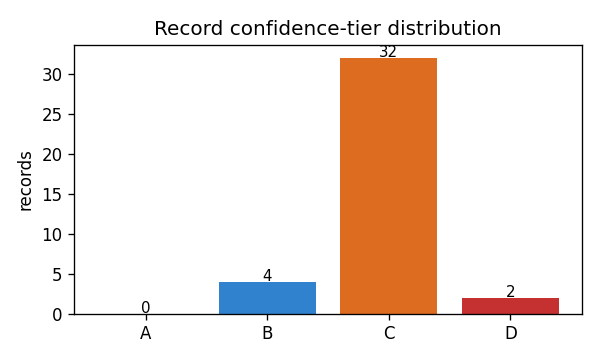
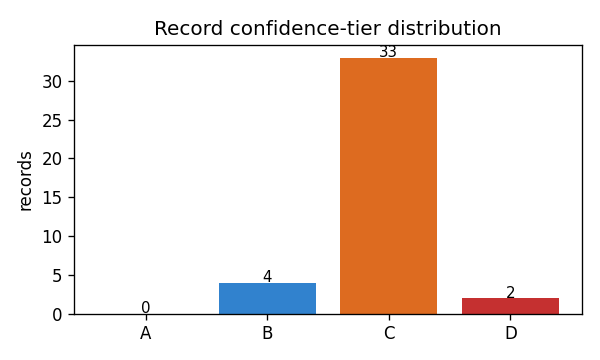
Cox survival link + survival-model-choice divergence (v0.13.0)
Completes the spec's "Cox and parametric OS/PFS link models" (§2, §6): the
parametric Weibull-PH form existed; the Cox form (nonparametric tabulated
baseline) did not.

- survival_cox_ph kernel: S(t|x) = S0(t)^exp(beta*x), with S0(t) a tabulated
  baseline survival interpolated from the record — the data-driven baseline is
  exactly what distinguishes Cox from the closed-form Weibull link.
- Kernel framework: KernelSpec.uses_baseline + structure.baseline_survival table
  (schema), injected by simulate via _survival_vals.
- The Cox link (survival_link.nsclc_os_cox) carries structure.default=false, so
  auto-discovery still returns exactly one link per (context, endpoint) and the
  Cox form is opt-in via survival_link=. This turns "Weibull vs Cox" into a
  deliberate survival-model-choice comparison — a third uncertainty axis (median
  OS ~91 vs ~107 wk on the identical week-8 TGI metric).
- The tabulated baseline travels in the vt-json and JSON-LD exports (+ context
  terms endpoint / baselineSurvival).

Tests (+6): kernel registration, non-default auto-exclusion, valid monotone
survival curve, covariate direction, Weibull-vs-Cox disagreement, baseline in
exports. 138 pass.

Docs: README survival-model-choice section + figure + kernels table + design
decision; notebook 10; CHANGELOG; version 0.13.0; report regenerated.

All parameter values remain illustrative and unverified by design.

diff --git a/tests/test_cox.py b/tests/test_cox.py
@@ -1,0 +1,64 @@
+"""Cox proportional-hazards survival link (nonparametric tabulated baseline)."""
+
+import json
+
+import numpy as np
+import onkos
+from onkos.export.registry import get_kernel
+from onkos.simulate import _survival_vals
+
+NSCLC = {"tumor_type": "NSCLC", "line": "first"}
+COX = "survival_link.nsclc_os_cox"
+T = np.linspace(0.0, 208.0, 417)
+
+
+def test_cox_kernel_registered_and_uses_baseline():
+    spec = get_kernel(onkos.load()[COX])
+    assert spec.name == "survival_cox_ph"
+    assert spec.uses_baseline is True
+
+
+def test_cox_is_not_auto_selected():
+    """The non-default Cox link must not collide with the Weibull OS link."""
+    ds = onkos.load()
+    tr = onkos.simulate(ds, "resistance.claret_2009.tgi", context=NSCLC, drug_effect=1.0)
+    # auto-discovery yields exactly the default OS (Weibull) and PFS links
+    assert set(tr.survival) == {"OS", "PFS"}
+
+
+def test_cox_curve_is_valid_survival():
+    ds = onkos.load()
+    tr = onkos.simulate(ds, "resistance.claret_2009.tgi", context=NSCLC, drug_effect=1.0,
+                        t=T, survival_link=COX)
+    s = tr.os_curve
+    assert s is not None
+    assert abs(s[0] - 1.0) < 1e-6        # starts at full survival
+    assert np.all(np.diff(s) <= 1e-9)    # monotone non-increasing
+    assert np.all((s >= 0) & (s <= 1))
+
+
+def test_cox_covariate_direction():
+    ds = onkos.load()
+    cox = ds[COX]
+    spec = get_kernel(cox)
+    better = spec.analytic(T, _survival_vals(cox, -0.5))  # deep shrinkage
+    worse = spec.analytic(T, _survival_vals(cox, +0.5))   # growth
+    assert better[200] > worse[200]
+
+
+def test_weibull_vs_cox_disagree_on_same_metric():
+    """Survival-model choice is itself an uncertainty axis."""
+    ds = onkos.load()
+    w = onkos.simulate(ds, "resistance.claret_2009.tgi", context=NSCLC, drug_effect=1.0, t=T)
+    c = onkos.simulate(ds, "resistance.claret_2009.tgi", context=NSCLC, drug_effect=1.0, t=T,
+                       survival_link=COX)
+    assert np.max(np.abs(w.os_curve - c.os_curve)) > 0.05
+
+
+def test_cox_baseline_travels_in_exports():
+    ds = onkos.load()
+    from onkos.export import to_virtual_trial_json
+
+    vt = json.loads(to_virtual_trial_json(ds[COX]))
+    assert vt["baseline_survival"]["times"][0] == 0
+    assert len(vt["baseline_survival"]["survival"]) == len(vt["baseline_survival"]["times"])

diff --git a/scripts/make_figures.py b/scripts/make_figures.py
@@ -466,6 +466,37 @@ def survival_endpoints_figure() -> None:
     plt.close(fig)
 
 
+def survival_model_choice_figure() -> None:
+    """Weibull (parametric) vs Cox (nonparametric baseline) OS from the same metric."""
+    ds = onkos.load()
+    t = np.linspace(0.0, 208.0, 417)
+    ctx = {"tumor_type": "NSCLC", "line": "first"}
+    w = onkos.simulate(ds, "resistance.claret_2009.tgi", context=ctx, drug_effect=1.0, t=t)
+    c = onkos.simulate(ds, "resistance.claret_2009.tgi", context=ctx, drug_effect=1.0, t=t,
+                       survival_link="survival_link.nsclc_os_cox")
+    cox = ds["survival_link.nsclc_os_cox"].structure["baseline_survival"]
+
+    fig, ax = plt.subplots(figsize=(8.2, 4.4))
+    ax.plot(t, w.os_curve, color=PALETTE[0], lw=1.8, label="parametric Weibull-PH OS")
+    ax.plot(t, c.os_curve, color=PALETTE[1], lw=1.8, label="Cox-PH OS (tabulated baseline)")
+    ax.plot(cox["times"], cox["survival"], "o", color=PALETTE[2], ms=4, alpha=0.7,
+            label="Cox baseline S₀(t) (x=0)")
+    ax.fill_between(t, np.minimum(w.os_curve, c.os_curve), np.maximum(w.os_curve, c.os_curve),
+                    color="grey", alpha=0.15)
+    ax.axhline(0.5, ls=":", color="grey", lw=1)
+    spread = float(np.max(np.abs(w.os_curve - c.os_curve)))
+    ax.set_title(f"Survival-model choice (NSCLC OS, same week-8 metric) — "
+                 f"max spread {spread:.2f}; median {w.median_os:.0f} vs {c.median_os:.0f} wk",
+                 fontsize=10)
+    ax.set_xlabel("weeks")
+    ax.set_ylabel("survival fraction")
+    ax.set_ylim(0, 1.02)
+    ax.legend(fontsize=8)
+    fig.tight_layout()
+    fig.savefig(OUT / "survival_model_choice.png", dpi=120)
+    plt.close(fig)
+
+
 if __name__ == "__main__":
     divergence_figure()
     tier_figure()
@@ -478,4 +509,5 @@ if __name__ == "__main__":
     tgi_metrics_figure()
     sensitivity_figure()
     survival_endpoints_figure()
+    survival_model_choice_figure()
     print(f"Wrote figures to {OUT}")

diff --git a/python/onkos/export/reference.py b/python/onkos/export/reference.py
@@ -52,6 +52,9 @@ class KernelSpec:
     # For multi-state systems whose non-first states start nonzero: the value
     # name (input or parameter) seeding each state, by position.
     init_inputs: list[str] = field(default_factory=list)
+    # Survival kernels with a nonparametric (tabulated) baseline hazard (Cox):
+    # simulate injects the record's ``structure.baseline_survival`` table.
+    uses_baseline: bool = False
 
     def map_values(self, record_values: dict[str, float]) -> dict[str, float]:
         """Translate record symbols to kernel-internal names (e.g. lambda->lam)."""
@@ -191,6 +194,18 @@ def _biexp_rhs(t, y, v):
 def _weibull_ph_analytic(t, v):
     shape, scale, beta, x = v["weibull_shape"], v["weibull_scale"], v["beta"], v["x"]
     return np.exp(-((t / scale) ** shape) * np.exp(beta * x))
+
+
+# Cox proportional hazards with a NONPARAMETRIC (tabulated) baseline survival
+# S0(t): S(t | x) = S0(t) ** exp(beta * x). The baseline is interpolated from the
+# record's structure.baseline_survival table; this is what distinguishes a Cox
+# model from the parametric Weibull form (the baseline comes from data, not a
+# closed-form distribution).
+def _cox_ph_analytic(t, v):
+    bt, b_s0 = v["baseline_times"], v["baseline_survival"]
+    s0 = np.interp(t, bt, b_s0, left=1.0, right=float(b_s0[-1]))
+    s0 = np.clip(s0, 1e-12, 1.0)
+    return s0 ** np.exp(v["beta"] * v["x"])
 
 
 # ----------------------------------------------------------------------------
@@ -342,6 +357,16 @@ KERNELS: dict[str, KernelSpec] = {
         record_symbols=["weibull_shape", "weibull_scale", "beta"],
         inputs=["x"],
         analytic=_weibull_ph_analytic,
+    ),
+    "survival_cox_ph": KernelSpec(
+        name="survival_cox_ph",
+        kind="survival",
+        states=["survival_fraction"],
+        params=["beta"],
+        record_symbols=["beta"],
+        inputs=["x"],
+        analytic=_cox_ph_analytic,
+        uses_baseline=True,
     ),
     "er_emax": KernelSpec(
         name="er_emax",

diff --git a/python/onkos/simulate.py b/python/onkos/simulate.py
@@ -78,22 +78,36 @@ def _baseline_y0(ds: Dataset, tumor_type: str | None, line: str | None) -> float
 
 
 def _find_survival_links(ds: Dataset, tumor_type: str | None) -> list[Record]:
-    """All survival links whose context matches this tumor type (one per endpoint).
+    """The *default* survival links for this tumor type (one per endpoint).
 
-    No fallback: an unmatched context (including any preclinical context) gets no
-    survival curve rather than a model from an unrelated tumor type."""
+    Non-default links (e.g. the alternative Cox form) are reachable only via the
+    explicit ``survival_link=`` argument, so they don't collide with the default
+    parametric link on the same endpoint. No fallback: an unmatched context gets
+    no survival curve rather than a model from an unrelated tumor type."""
     out = []
     for r in ds:
         if r.purpose != "survival_link":
             continue
         dc = r.derivation_context
-        if dc and dc.tumor_type == tumor_type:
+        if dc and dc.tumor_type == tumor_type and r.structure.get("default", True):
             out.append(r)
     return out
 
 
 def _endpoint(link: Record) -> str:
     return link.structure.get("endpoint", "OS")
+
+
+def _survival_vals(link: Record, x: float) -> dict:
+    """Kernel values for a survival link, including the Cox baseline table."""
+    spec = get_kernel(link)
+    vals = kernel_values(link)
+    vals["x"] = x
+    if spec.uses_baseline:
+        bs = link.structure.get("baseline_survival", {})
+        vals["baseline_times"] = np.asarray(bs.get("times", []), dtype=float)
+        vals["baseline_survival"] = np.asarray(bs.get("survival", []), dtype=float)
+    return vals
 
 
 def _resolve_effect(
@@ -197,8 +211,7 @@ def simulate(
         links = [ds[survival_link]] if survival_link else _find_survival_links(ds, tumor_type)
     for link in links:
         link_spec = get_kernel(link)
-        link_vals = kernel_values(link)
-        link_vals["x"] = metrics["week8_relative_change"]
+        link_vals = _survival_vals(link, metrics["week8_relative_change"])
         survival[_endpoint(link)] = np.asarray(link_spec.analytic(t, link_vals), dtype=float)
         contributing.append(link)
     os_curve = survival.get("OS")

diff --git a/python/onkos/export/jsonld.py b/python/onkos/export/jsonld.py
@@ -74,6 +74,10 @@ def record_node(record: Record, *, tier=None, dataset_version: str = _V) -> dict
         node["isDescribedBy"] = uris
     if record.primary_citation and record.primary_citation.doi:
         node["doi"] = record.primary_citation.doi
+    if record.structure.get("endpoint"):
+        node["endpoint"] = record.structure["endpoint"]
+    if record.structure.get("baseline_survival"):
+        node["baselineSurvival"] = record.structure["baseline_survival"]
     node["hasParameter"] = [
         {
             "@id": f"{_RECORD_IRI}{record.id}#{p.symbol}",

diff --git a/python/onkos/_const.py b/python/onkos/_const.py
@@ -1,5 +1,5 @@
 """Shared constants (kept import-cycle-free)."""
 
-VERSION = "0.12.0"
+VERSION = "0.13.0"
 
 CLINICAL_USE = "PROHIBITED — research / drug-development / education only"

diff --git a/python/onkos/export/virtual_trial_json.py b/python/onkos/export/virtual_trial_json.py
@@ -36,6 +36,8 @@ def virtual_trial_dict(record: Record, *, tier=None, dataset_version: str = _V) 
         "kernel": record.kernel,
         "tier": tier or record.tier,
         "review_status": record.review_status,
+        "endpoint": record.structure.get("endpoint"),
+        "baseline_survival": record.structure.get("baseline_survival"),
         "states": spec.states,
         "parameters": [
             {

diff --git a/README.md b/README.md
@@ -18,7 +18,7 @@ weakest, least-validated input — so make that a first-class, machine-readable
 field.**
 
 [![CI](https://github.com/clay-good/onkos/actions/workflows/ci.yml/badge.svg)](https://github.com/clay-good/onkos/actions/workflows/ci.yml)
-&nbsp;v0.12 · Code: MIT · Data: CC-BY-4.0 · Python ≥ 3.9
+&nbsp;v0.13 · Code: MIT · Data: CC-BY-4.0 · Python ≥ 3.9
 
 ---
 
@@ -155,6 +155,27 @@ divergence view, uncertainty bands, and sensitivity (`target="median_pfs_weeks"`
 tr = onkos.simulate(ds, "resistance.claret_2009.tgi", context=ctx, drug_effect=1.0)
 tr.survival                    # {"OS": curve, "PFS": curve}
 tr.median_os, tr.median_pfs    # e.g. 90.8, 35.1 weeks  (PFS < OS)
+```
+
+### A third axis: survival-model choice (parametric vs Cox)
+
+The spec (§2, §6) asks for **Cox** as well as parametric links. The Cox
+proportional-hazards form uses a *nonparametric* tabulated baseline survival
+`S0(t)` (from data, not a closed-form distribution): `S(t | x) = S0(t)^exp(β·x)`.
+It is marked **non-default**, so it never auto-collides with the Weibull link on
+the same endpoint — you opt in with `survival_link=` to ask a different question:
+*how much does the choice of survival model itself move the answer?*
+
+![Survival-model choice: Weibull vs Cox](docs/images/survival_model_choice.png)
+
+For NSCLC OS, the same week-8 TGI metric fed through the parametric Weibull link
+versus the Cox link shifts median OS from ~91 to ~107 weeks — a third uncertainty
+axis (survival-model structure) alongside model-selection divergence and
+parameter variability.
+
+```python
+cox = onkos.simulate(ds, "resistance.claret_2009.tgi", context=ctx,
+                     survival_link="survival_link.nsclc_os_cox")
 ```
 
 ---
@@ -322,7 +343,8 @@ from a PK exposure through an exposure-response kernel (below).
 | `growth_gompertz` | ODE | `dV/dt = kg·V·ln(Vmax/V)` | `growth_laws.gompertz` |
 | `claret_tgi` | ODE | `dy/dt = kL·y − kD·E·e^(−λt)·y` (resistance = exp-decay of kill) | `resistance.claret_2009.tgi` |
 | `biexp_tgi` | ODE | `y = y0·(e^(−ks·E·t) + e^(kg·t) − 1)` (shrink + regrowth) | `tgi_metrics.wang_2009.*`, `tgi_metrics.bruno_2020.*` |
-| `survival_weibull_ph` | survival | `S(t) = exp(−(t/scale)^shape · e^(β·x))`, `x` = week-8 change | `survival_link.nsclc_os_week8` |
+| `survival_weibull_ph` | survival | `S(t) = exp(−(t/scale)^shape · e^(β·x))`, `x` = week-8 change | `survival_link.*_os_week8`, `…_pfs_week8` |
+| `survival_cox_ph` | survival | `S(t) = S0(t)^e^(β·x)`, `S0` = tabulated baseline | `survival_link.nsclc_os_cox` |
 | `er_emax` | exposure-response | `E = Emax·C/(EC50+C)` | `exposure_response.emax_generic`, `…dacomitinib_egfr.emax` |
 | `er_sigmoid_emax` | exposure-response | `E = Emax·C^γ/(EC50^γ+C^γ)` | `exposure_response.sigmoid_emax_generic` |
 | `er_power` | exposure-response | `E = slope·C^θ` | `exposure_response.power_generic` |
@@ -613,6 +635,7 @@ g = Graph().parse(data=onkos.export.to_jsonld(ds["resistance.claret_2009.tgi"]),
 | PharmML SO carries IIV as random-effect variance, never as estimate precision (RSE) | The SO's job is to report results, but the dataset curates inter-individual variability, not the precision of the population estimate. Encoding IIV as `omega = ln(1+CV²)` is faithful; fabricating an RSE we don't have would not be — so the precision block is deliberately omitted. |
 | Linked data is validated by RDF expansion, not just emitted | A JSON file with `onkos:` keys is not automatically valid JSON-LD. Shipping a single `@context`, typing `isDescribedBy` as `@id`, and having CI expand the output with rdflib to check the triples means the machine-readability claim is enforced rather than assumed. |
 | OS and PFS share one mechanism (a tagged survival link), not two code paths | Both endpoints are Weibull-PH links on the same week-8 TGI metric, distinguished only by a `structure.endpoint` tag and their scale. `simulate` returns a curve per endpoint found for the context, so adding PFS needed data, not new kernels — and every analysis (divergence, uncertainty, sensitivity) works on either endpoint for free. |
+| The Cox link is non-default and opt-in, not an auto-selected competitor | Auto-discovery assumes one link per (context, endpoint). The Cox alternative carries `structure.default: false`, so it's reachable only via explicit `survival_link=` — turning "Weibull vs Cox" into a deliberate survival-model-choice comparison instead of a silent collision. Its tabulated baseline rides along in the vt-json / JSON-LD exports. |
 | Composable with Hypnos | A shared export/annotation convention lets a Hypnos PK record drive an Onkos TGI model end to end via an exposure-response record. |
 
 ---

diff --git a/docs/dataset-health.md b/docs/dataset-health.md
@@ -2,10 +2,10 @@
 
 > GENERATED by `onkos report` — do not hand-edit. NOT FOR CLINICAL USE.
 
-- **Dataset version:** 0.12.0
-- **Records:** 38  ·  **Citations:** 8
-- **Verified (PDF-checked):** 0 / 38
-- **External-validation coverage** (clinical TGI + survival models): 20 / 20  `████████████████████` 100%
+- **Dataset version:** 0.13.0
+- **Records:** 39  ·  **Citations:** 8
+- **Verified (PDF-checked):** 0 / 39
+- **External-validation coverage** (clinical TGI + survival models): 21 / 21  `████████████████████` 100%
 
 ## Records by subsystem
 
@@ -16,7 +16,7 @@
 | immuno_oncology | 2 |
 | preclinical_translation | 3 |
 | resistance | 5 |
-| survival_link | 10 |
+| survival_link | 11 |
 | tgi_metrics | 5 |
 | tumor_type_baselines | 5 |
 
@@ -26,7 +26,7 @@
 | --- | --- | --- |
 | A | 0 | externally validated, broad context |
 | B | 4 | robust single trial, partial external check |
-| C | 32 | single trial, no external validation |
+| C | 33 | single trial, no external validation |
 | D | 2 | out-of-context transport, or hypothesis-tier (not predictive) |
 
 ## Tier × subsystem
@@ -38,7 +38,7 @@
 | immuno_oncology | 0 | 0 | 0 | 2 |
 | preclinical_translation | 0 | 0 | 3 | 0 |
 | resistance | 0 | 0 | 5 | 0 |
-| survival_link | 0 | 0 | 10 | 0 |
+| survival_link | 0 | 0 | 11 | 0 |
 | tgi_metrics | 0 | 0 | 5 | 0 |
 | tumor_type_baselines | 0 | 0 | 5 | 0 |
 
@@ -46,7 +46,7 @@
 
 | status | records |
 | --- | --- |
-| unverified | 38 |
+| unverified | 39 |
 
 ## External-validation backlog
 

diff --git a/CHANGELOG.md b/CHANGELOG.md
@@ -4,6 +4,20 @@ All notable changes to Onkos are documented here. Versions follow the phased
 roadmap (spec §11). All parameter values are illustrative and `unverified` by
 design; the infrastructure is real and tested.
 
+## [0.13.0] — Cox survival link + survival-model-choice divergence
+
+- `survival_cox_ph` kernel: Cox proportional hazards with a NONPARAMETRIC
+  tabulated baseline survival `S0(t)` (`S(t|x) = S0(t)^exp(beta*x)`), the feature
+  that distinguishes Cox from the parametric Weibull form. Completes the spec's
+  "Cox and parametric OS/PFS link models".
+- The Cox link (`survival_link.nsclc_os_cox`) is marked `structure.default: false`
+  so it never auto-collides with the Weibull OS link; selecting it via
+  `survival_link=` enables a "Weibull vs Cox" survival-model-choice comparison —
+  a third uncertainty axis (median OS ~91 vs ~107 wk on the same TGI metric).
+- Kernel framework: `uses_baseline` flag + `structure.baseline_survival` table
+  (schema), injected by `simulate`. The baseline rides along in vt-json / JSON-LD.
+- Survival-model-choice figure + notebook 10.
+
 ## [0.12.0] — Progression-free survival (PFS) endpoint
 
 - Second survival endpoint: a PFS link per tumor context (parametric Weibull-PH on